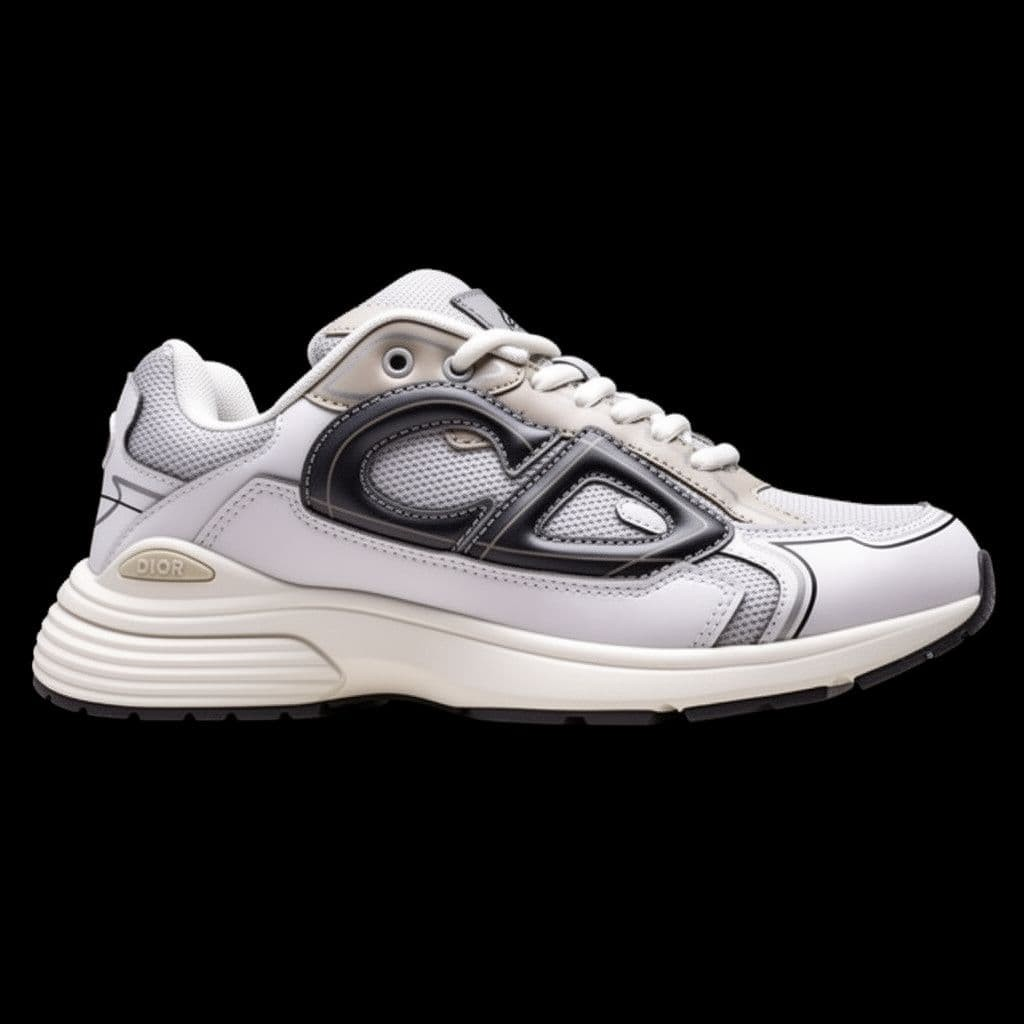
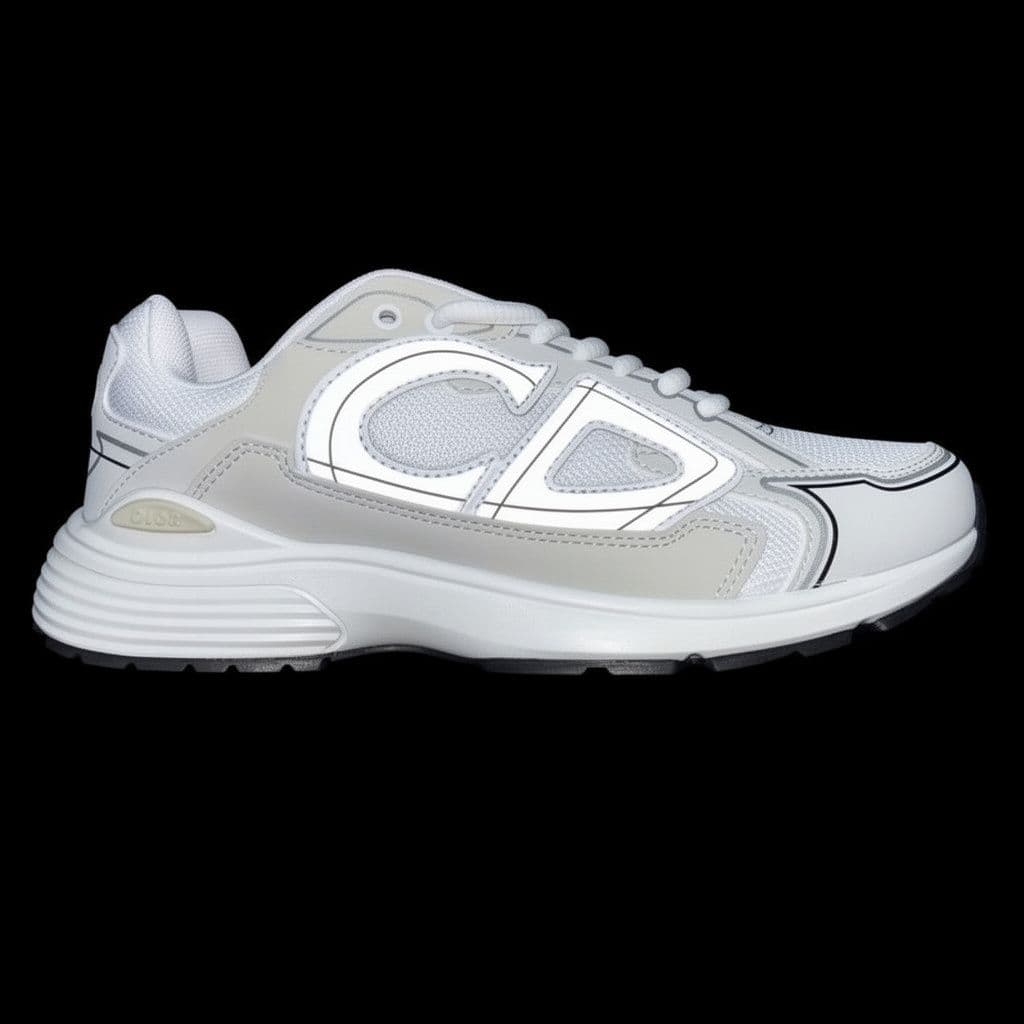
Add files via upload

Changed region(s): [[0.0312, 0.25, 1.0, 0.7188]]

diff --git a/script.js b/script.js
@@ -46,7 +46,7 @@ const products = [
       {name:'Preto / Prata', img:'images/asics3.jpg'},
       {name:'Azul / Prata', img:'images/asics4.jpg'},
       {name:'Branco / Vermelho', img:'images/asics5.jpg'},
-      {name:'Rosa / Dourado / Preto', img:'images/asics6.jpg'}
+      {name:'Rosa / Cinza / Preto', img:'images/asics6.jpg'}
     ]},
   {cat:'Tênis', brand:'BIRKENSTOCK', name:'Arizona', icon:'sneaker', price:799.90, old:899.90, stock:true, free:true, sizes:['36','37','38','39','40','41','42','43','44'],
     colors:[
@@ -70,11 +70,13 @@ const products = [
   },
   {cat:'Tênis', brand:'DIOR', name:'B30', icon:'sneaker', price:899.90, old:999.90, stock:true, free:true, sizes:['38','39','40','41','42','43','44'],
     colors:[
-      {name:'Branco', img:'images/b30_branco.jpg'},
+      {name:'Branco / Bege', img:'images/b30_brancobege.jpg'},
       {name:'Bege', img:'images/b30_bege.jpg'},
       {name:'Azul', img:'images/b30_azul.jpg'},
       {name:'Preto', img:'images/b30_preto.jpg'},
-      {name:'Preto / Bege', img:'images/b30_pretobege.jpg'}
+      {name:'Preto / Bege', img:'images/b30_pretobege.jpg'},
+      {name:'Preto / Branco', img:'images/b30_pretobranco.jpg'},
+      {name:'Branco', img:'images/b30_branco.jpg'}
   ]
   }
 ];
